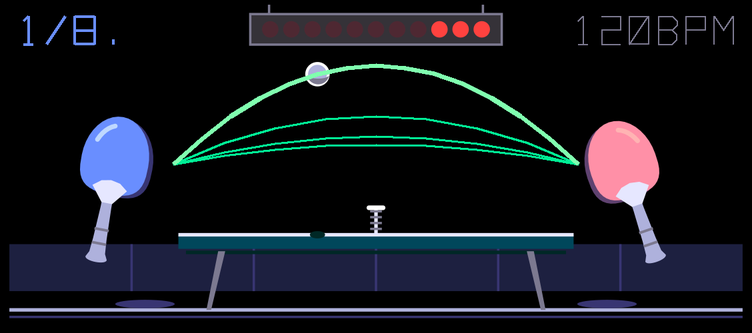
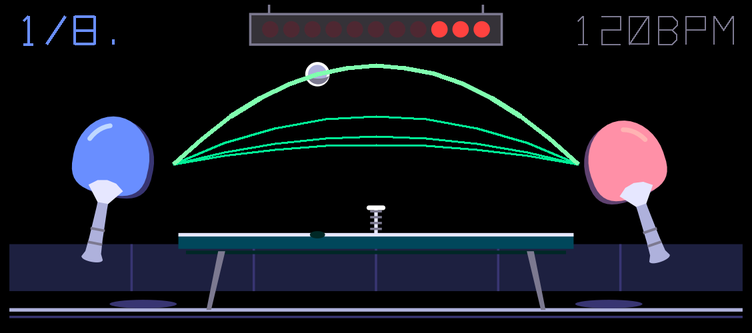
pingpong screen: blades 13 % wider (same height and handle); receiver cock-back 16 deg to stay inside the safe area

diff --git a/design/fx/gen_pingpong.py b/design/fx/gen_pingpong.py
@@ -30,7 +30,8 @@ HREF = 104        # table half-length the asset is drawn at (= blue's longest); 
 HMIN = 40         # half-length at the shortest delay
 BAT_Y = 70        # where the ball meets the paddles (blade centre height)
 BS = 1.15         # blade scale (rim, sheen, throat flare and shadow with it; the handle stays as it is)
-BLADE_W = 12.5 * BS     # blade half-width
+WS = 1.13         # the blade (rim, sheen, shadow) widened against its height
+BLADE_W = 12.5 * BS * WS  # blade half-width
 BLADE_TOP = 16.5 * BS   # blade extent from its centre away from the handle (rounded) ...
 BLADE_BASE = 12.5 * BS  # ... and toward it (flatter: a superellipse half, where the throat meets it)
 TILT = 19         # the paddle leans toward the net, degrees from upright (left paddle; mirrored on the right)
@@ -198,7 +199,7 @@ def paddle(side):
           at(2.3, -BLADE_BASE - 4)]
     grips = [(at(-3.1, h), at(3.1, h)) for h in (-GRIP_END + 13, -GRIP_END + 7)]
     outline = blade_pts(BLADE_W, BLADE_TOP, BLADE_BASE)
-    off = (-side * 1.4 * BS, 1.2 * BS)                                       # the rim: the blade's edge, seen as its thickness
+    off = (-side * 1.4 * BS * WS, 1.2 * BS)                                       # the rim: the blade's edge, seen as its thickness
     rim = [at(v, h) for v, h in outline]
     # sheen: an arc along the inner outline, upper outer quarter (away from the net)
     inner = blade_pts(BLADE_W - 3.4 * BS, BLADE_TOP - 3.4 * BS, BLADE_BASE - 3.4 * BS, 48)
@@ -214,7 +215,7 @@ def paddle(side):
         N("path", f"sheen{s}", d=P(*sh), fill="none",
           **A(stroke=C[c["sheen"]], stroke_width="2", stroke_linecap="round", stroke_linejoin="round")),
     ])
-    shadow = N("path", f"padshadow{s}", d=ellipse_d(bx - side * 6 * BS, FLOOR - 2.5, 11 * BS, 1.8), fill=C["darkblue"])
+    shadow = N("path", f"padshadow{s}", d=ellipse_d(bx - side * 6 * BS * WS, FLOOR - 2.5, 11 * BS * WS, 1.8), fill=C["darkblue"])
     return N("g", f"pad{s}", [shadow, bat])
 
 

diff --git a/src/slot/ui.c b/src/slot/ui.c
@@ -1606,8 +1606,8 @@ enum { P_TOP, P_LEGL, P_LEGR, P_PADL, P_PADR, P_BATL, P_BATR, P_BALL, P_SHADE, P
 static const char *const pp_ids[P_KINDS] = { "tabletop", "legL", "legR", "padL", "padR", "batL", "batR", "ball",
     "ballshade", "ballglint", "glow", "shadow", "table", "wall" };
 #define PIPS 11
-#define PP_PIVOT_X 21                                               /* the paddles turn about their handle ends: */
-#define PP_PIVOT_Y 111                                              /* (21, 111) and (299, 111) (pingpong.svg) */
+#define PP_PIVOT_X 19                                               /* the paddles turn about their handle ends: */
+#define PP_PIVOT_Y 111                                              /* (19, 111) and (301, 111) (pingpong.svg) */
 static struct svgdoc tennis RAM = { 0, 0 };
 static void *pp_node[P_KINDS] RAM = { 0 };
 static struct recol pp_ball RAM = { 0, { 0 } };
@@ -1701,10 +1701,10 @@ static void draw_tennis(void *r, const int16_t *k, int stereo)
     show(pp_node[P_PADR], stereo);
     show(pp_node[P_WALL], !stereo);
 
-    /* bats: the hitter follows through (24 deg, back to -8 over 0.12 s, then 0), the receiver cocks back (20 deg) over
+    /* bats: the hitter follows through (24 deg, back to -8 over 0.12 s, then 0), the receiver cocks back (16 deg) over
      * the last 40 % of the flight */
     int32_t hit = since < HIT ? -24 * (int32_t)DEG + 72143 * (int32_t)since : since < 8820 ? 8 * (int32_t)DEG : 0;
-    int32_t recv = ph > 614 ? 581974 * (ph - 614) : 0;
+    int32_t recv = ph > 614 ? 465579 * (ph - 614) : 0;              /* up to 16 deg: the wide blade stays on screen */
     int32_t al = right ? recv : hit, ar = right ? hit : recv;
     set_rotation(pp_node[P_BATL], (uint32_t)-al, PP_PIVOT_X, PP_PIVOT_Y);
     set_rotation(pp_node[P_BATR], (uint32_t)ar, 320 - PP_PIVOT_X, PP_PIVOT_Y);

diff --git a/notes/fx-pingpong.md b/notes/fx-pingpong.md
@@ -58,17 +58,17 @@ FX contract and slot mechanics: fx-slot.md. Confidence: **Confirmed** = read in 
 
 ## Screen (2026-10-16: paddles; `design/fx/pingpong.svg` from `design/fx/gen_pingpong.py`, ui.c `draw_tennis`)
 - The players are gone: two flat table-tennis bats, L blue and R pink, one at each table end, leaning 19 deg toward
-  the net. Blade 29 x 33 (taller than wide: an ellipse on top, a flatter superellipse base), its rim showing as the
+  the net. Blade 32.5 wide x 33.4 tall (an ellipse on top, a flatter superellipse base), its rim showing as the
   thickness, a sheen arc; a light throat flaring into the blade; a long purplegrey handle (two grip bands) with a
   flared end; a floor shadow. Mono (synth/drum FX) keeps squash: the L bat against the brick wall. Table, net,
   barrier, scoreboard, ball, arches unchanged. (First version 2026-10-16: round blades; the user found them too
-  round, so bigger, real bat shapes; then the blades 15 % bigger against the same handle.)
+  round, so bigger, real bat shapes; then the blades 15 % bigger against the same handle, then 13 % wider.)
 - gen_pingpong.py is the generator again (the SVG is reproducible): it writes the file, bridges multi-piece fills
   (strictify.py), makes the recoloured fills unique (uniquify.py) and runs check_svg.py and svg_cells.py --check.
   69 drawable elements, every one one subpath of absolute M / L / C / Z; heaviest fill the barrier ~784 cells (20 %).
 - Motion: the ball flies blade face to blade face once per delay (or a whole multiple >= 0.25 s), clocked by the
   line's write index (the generator places each blade so the ball at x 54 / 266 touches it); the hitter (group
-  `batL` / `batR`; the swing envelope stays off the table slab and below y 48, under the readouts) follows through 24 deg about its handle end (21, 111) / (299, 111) and settles, the receiver cocks back over the last 40 % of the flight; a lightblue swoosh for 0.12 s after a hit.
+  `batL` / `batR`; the swing envelope stays off the table slab and below y 48, under the readouts, and inside the safe area x 4 .. 316) follows through 24 deg about its handle end (19, 111) / (301, 111) and settles, the receiver cocks back 16 deg over the last 40 % of the flight; a lightblue swoosh for 0.12 s after a hit.
 - Blue: the table length now follows the delay played (log2 of the DSP's glided delay: 20 ms … 1.48 s = half length
   40 … 104), so it moves with the tape glide and with tempo changes; padL / padR, legs and the wall follow the ends.
 - Readout (immediate, after the SVG): top left in blue the division played ("1/8.", "1/8T", "1/4") or the free time
